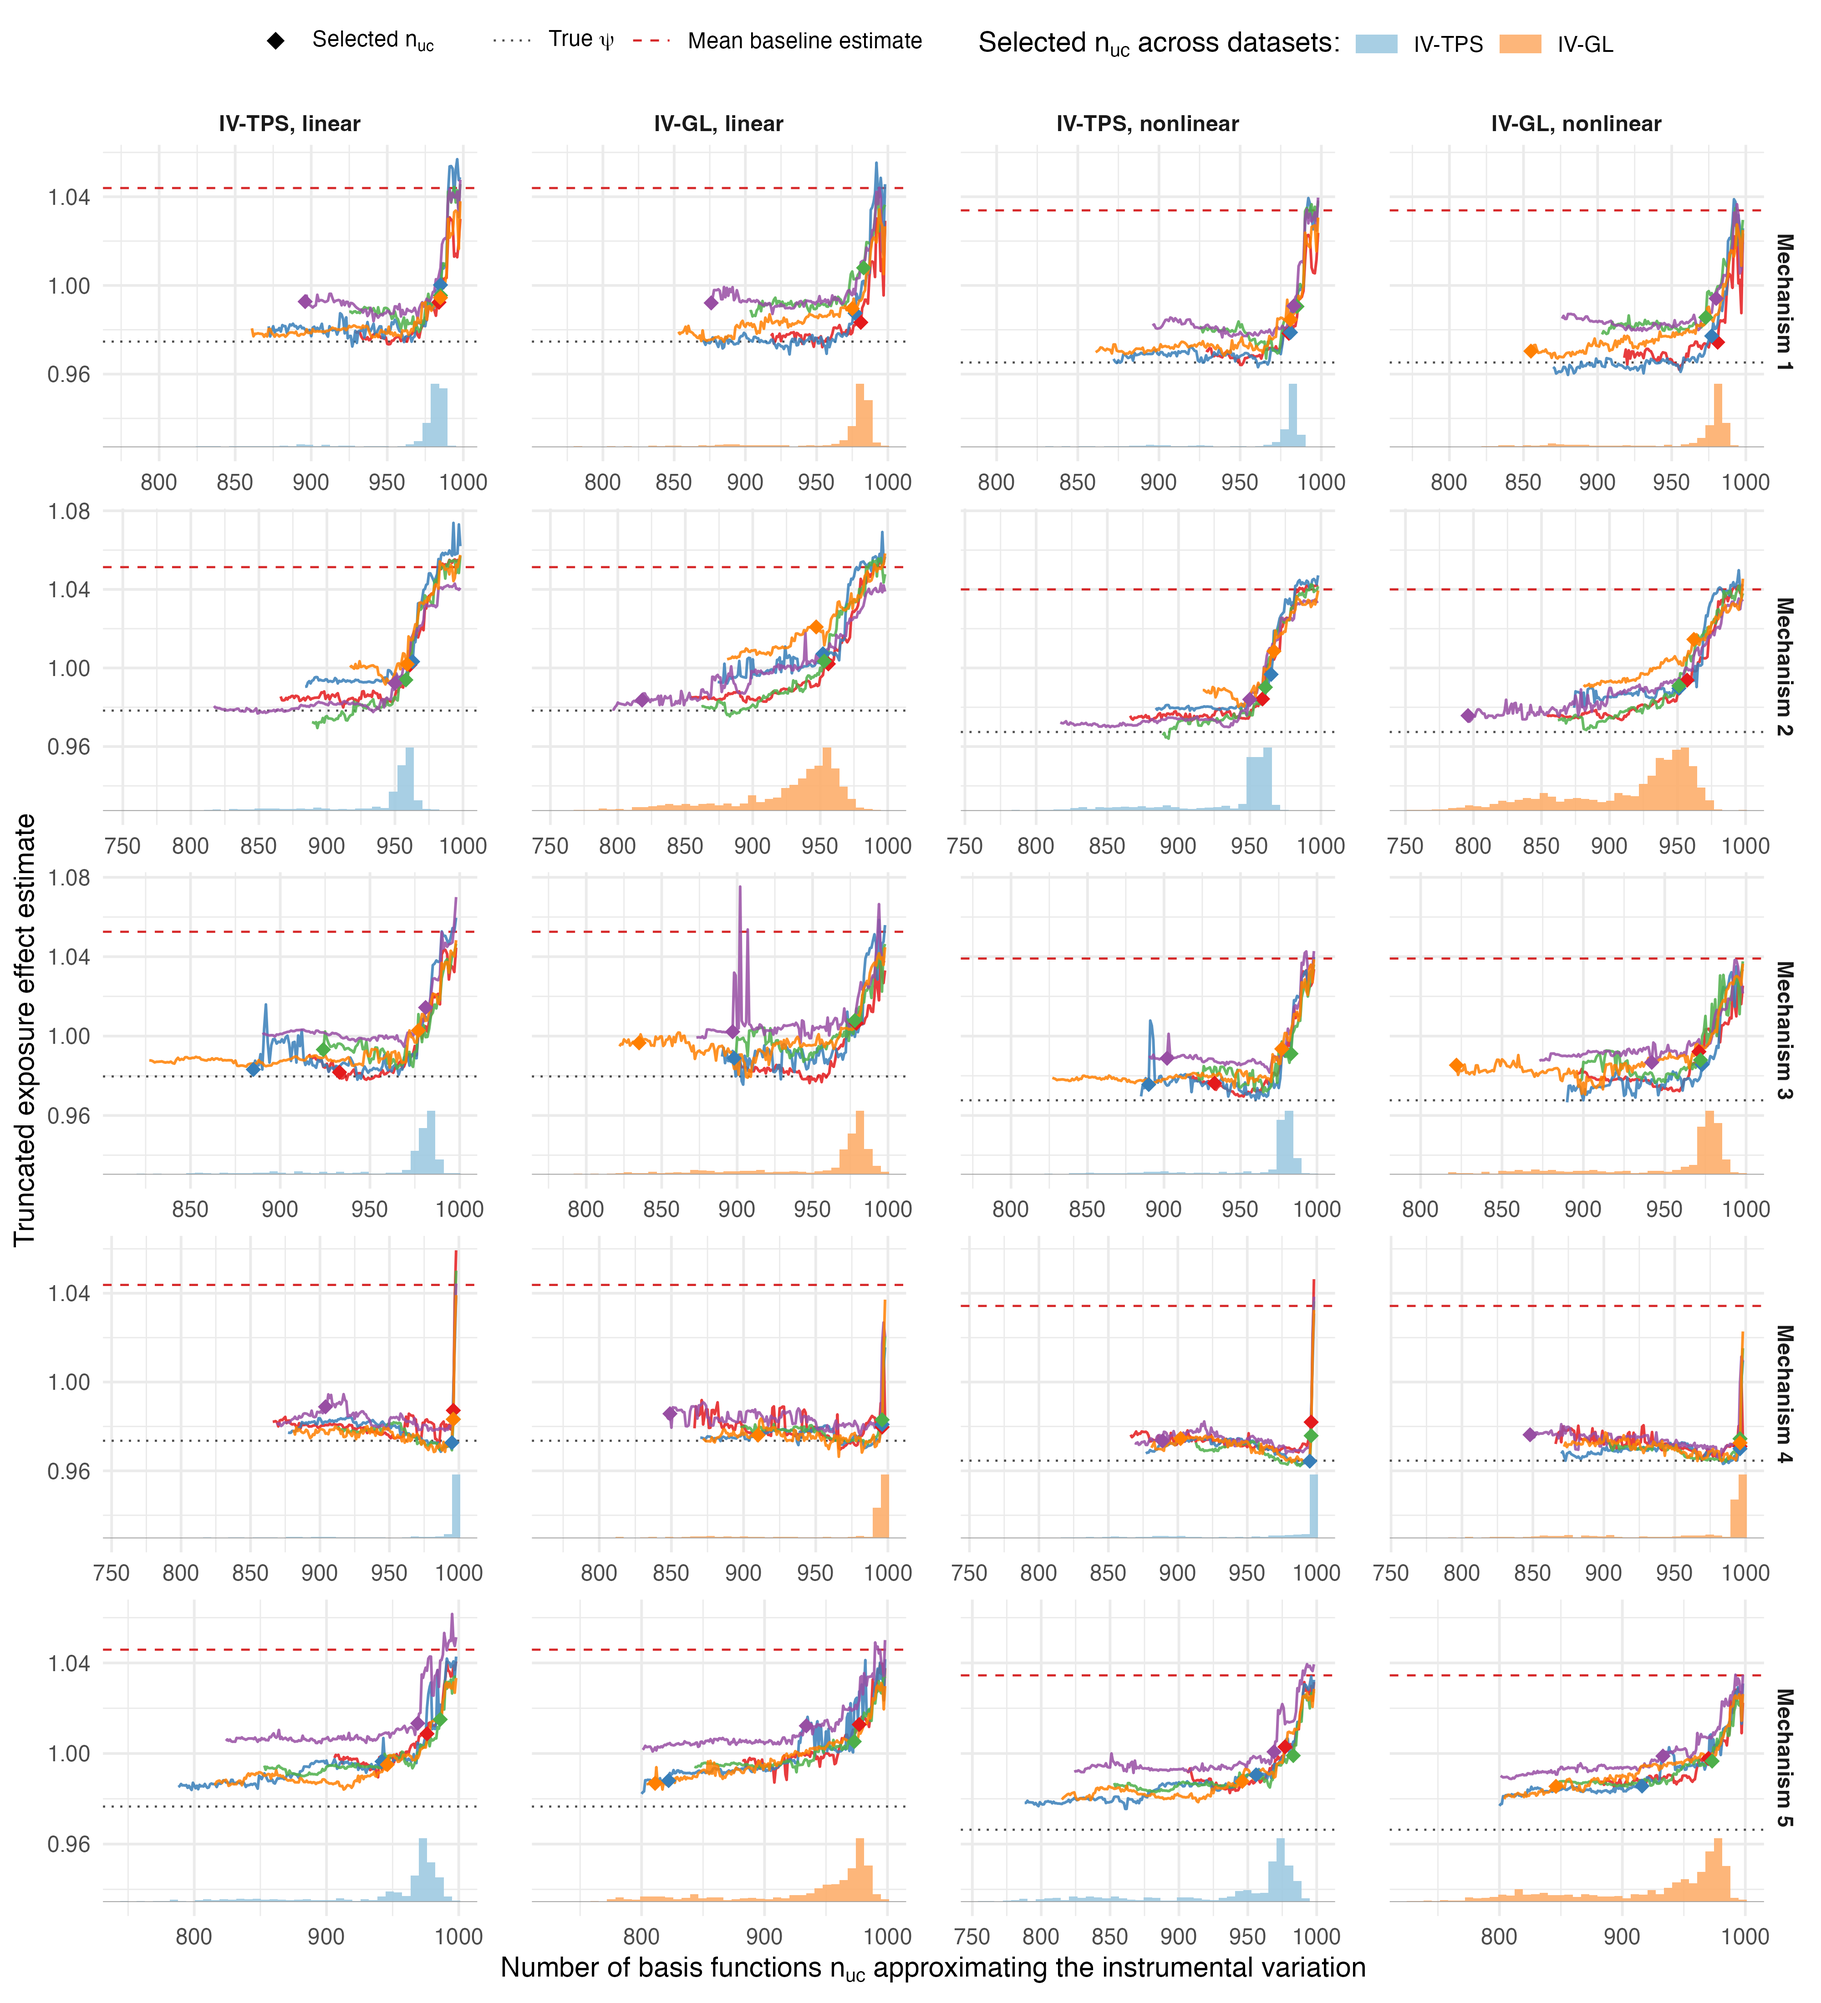
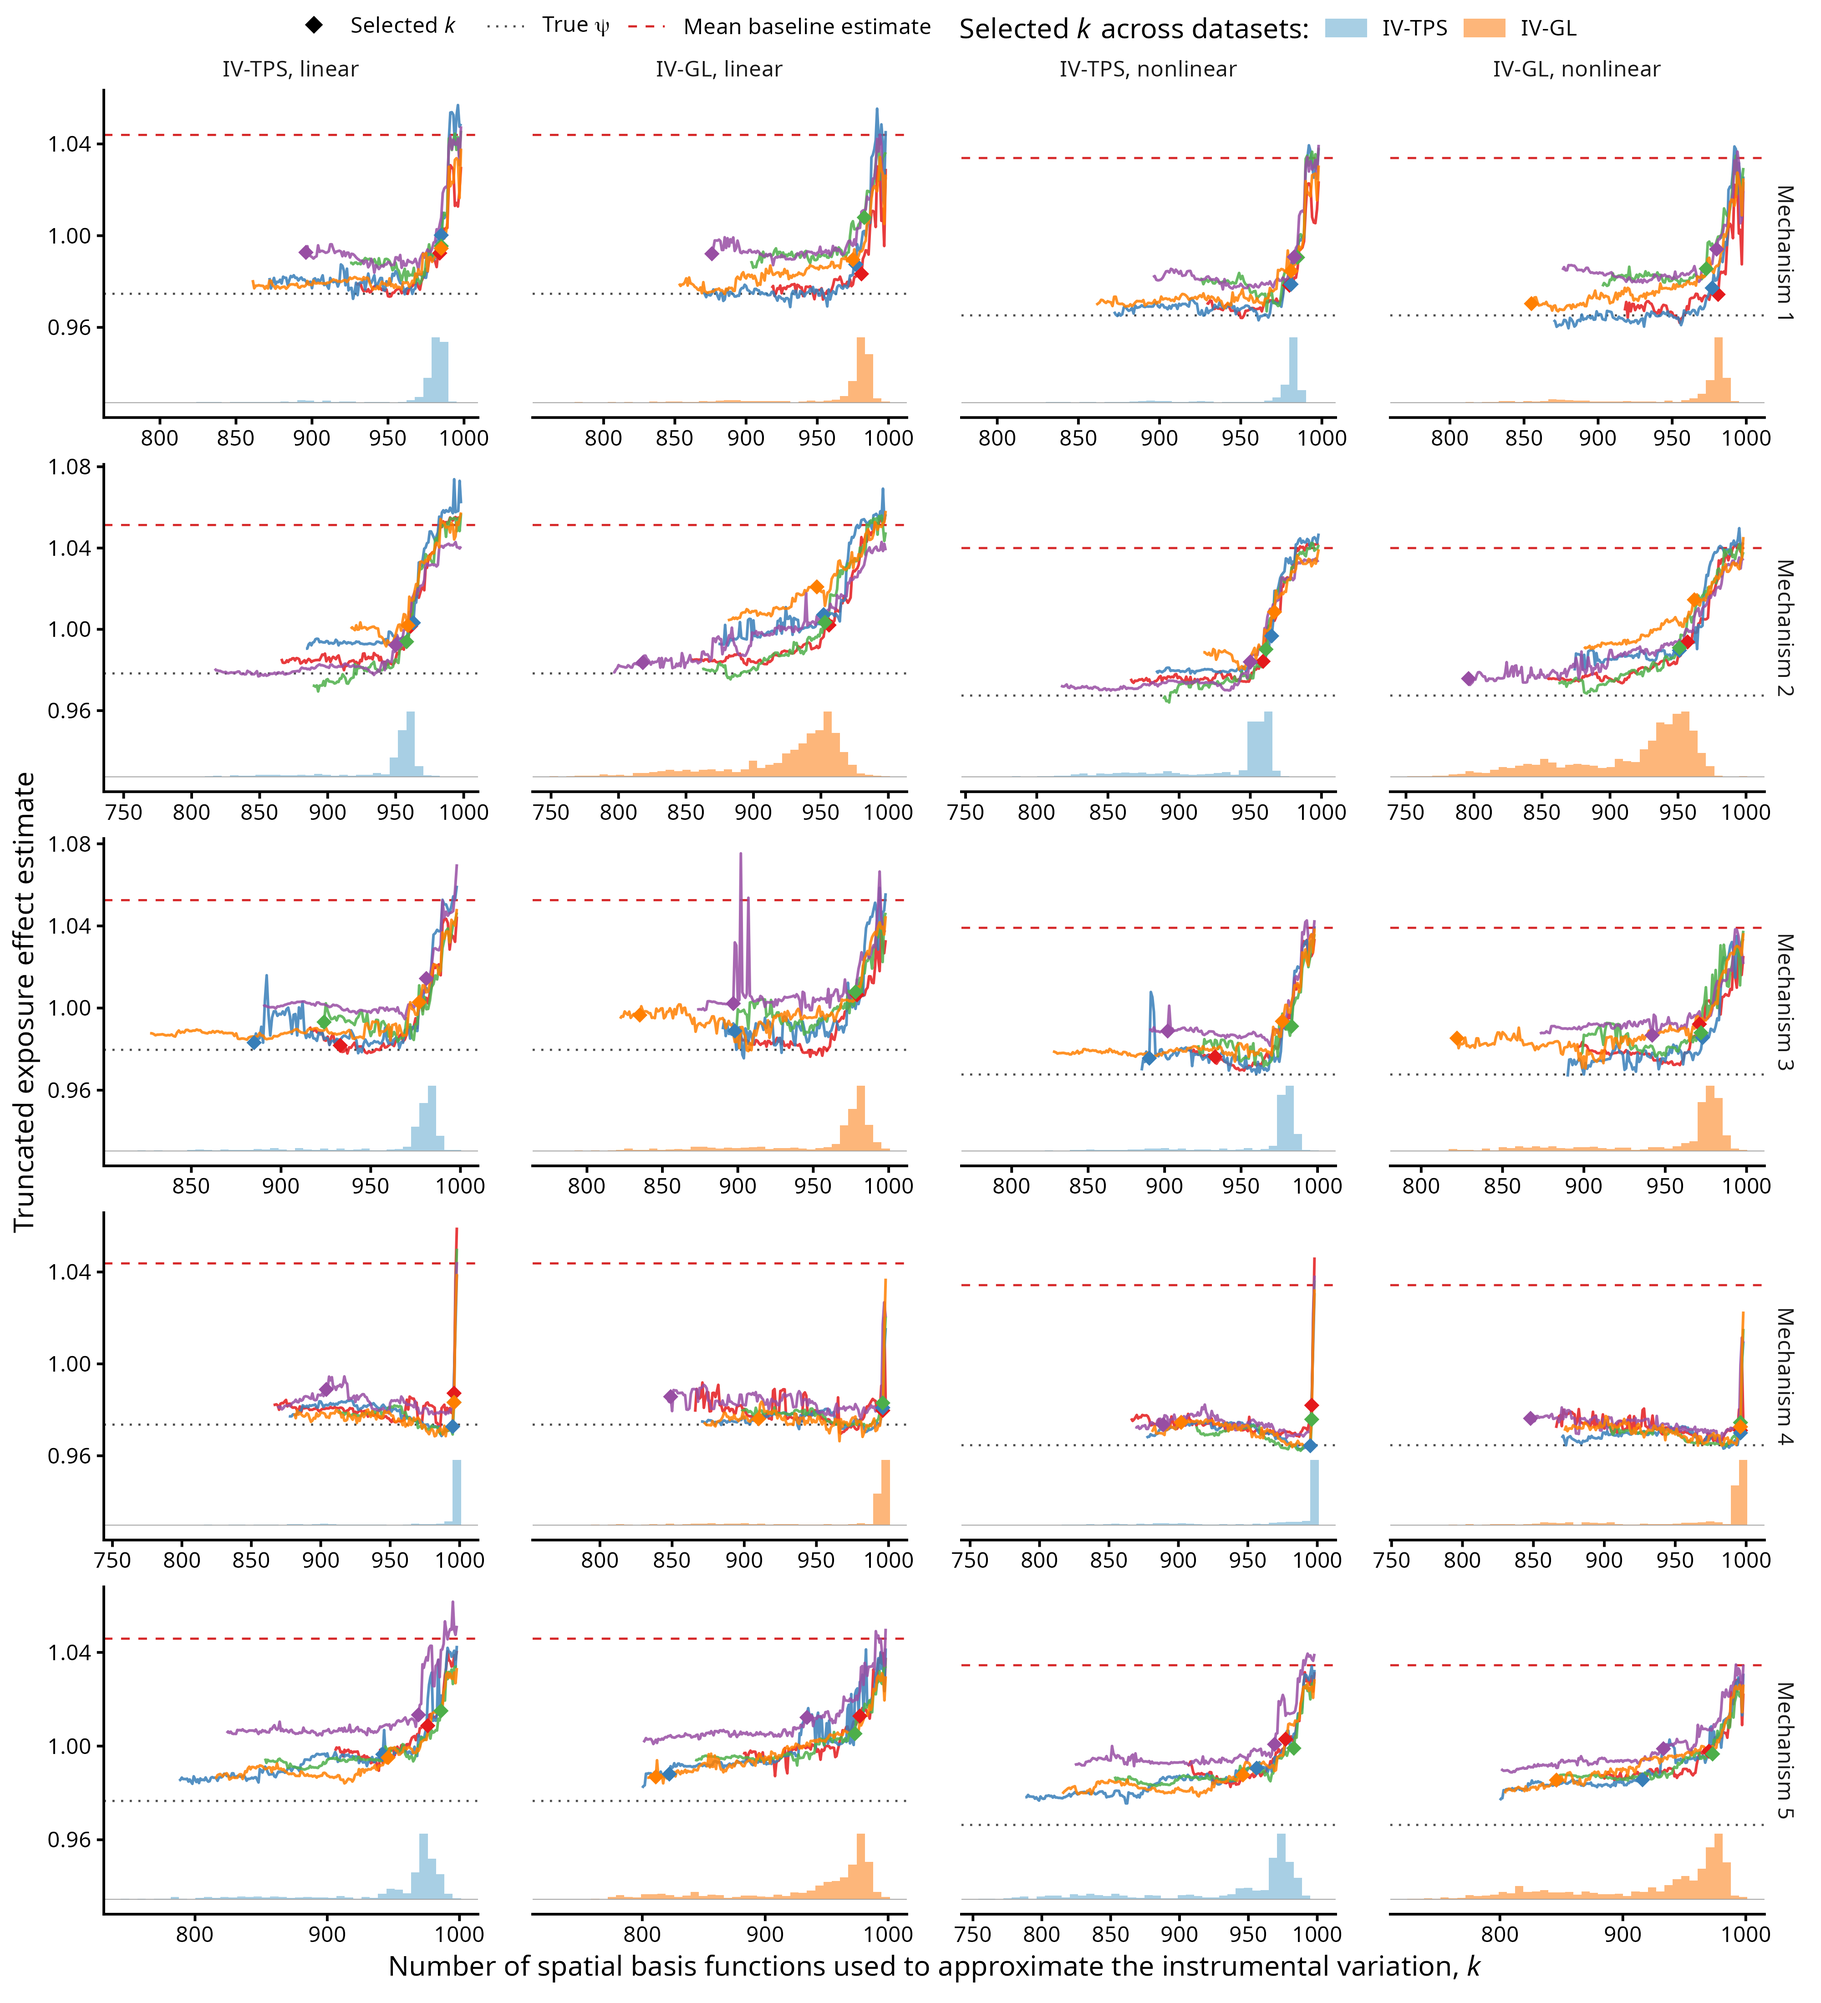
ensure that plot style matches data application

diff --git a/simulation/README.md b/simulation/README.md
@@ -14,4 +14,4 @@ Run every command from `simulation/`.
 | **4. Main-text table** | `Rscript make_main_table.R` | `tables/main_rmse_final.tex` |
 | **5. Maps of the confounding mechanisms** | `Rscript make_decomp.R` | `images/all-decomp.jpeg` |
 | **6. Sensitivity analysis** | `sbatch run_sensitivity.sh` | `images/sensitivity.rds`, `images/sensitivity.png` |
-| **7. Sensitivity and selected n<sub>uc</sub>** | `Rscript plot_combined.R` | `images/sensitivity_selection.png` |
+| **7. Sensitivity and selected k** | `Rscript plot_combined.R`; main-text version: `Rscript plot_combined.R images/sensitivity.rds results_final images/sensitivity_selection_main.png LS,MS linear` | `images/sensitivity_selection.png`, `images/sensitivity_selection_main.png` |
